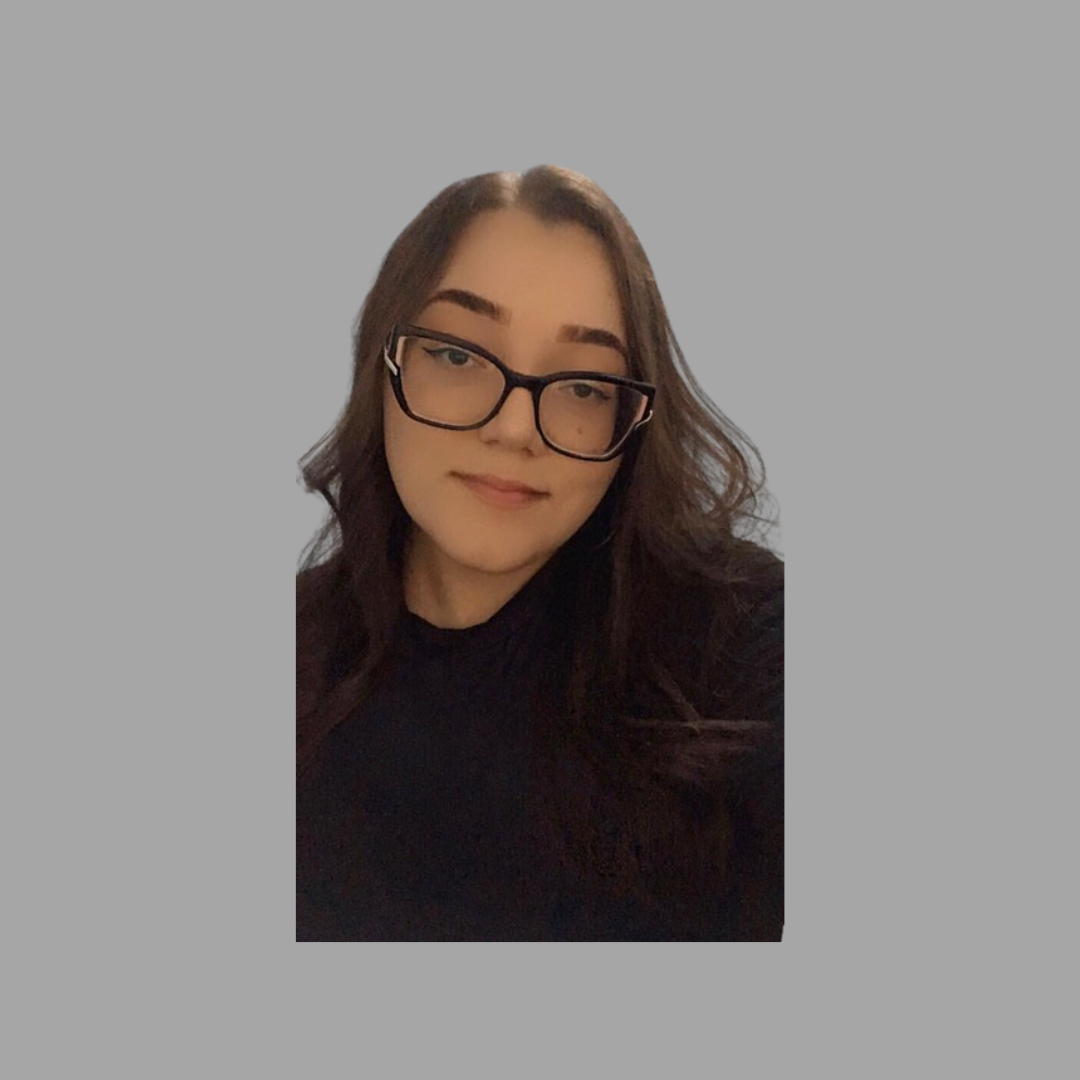
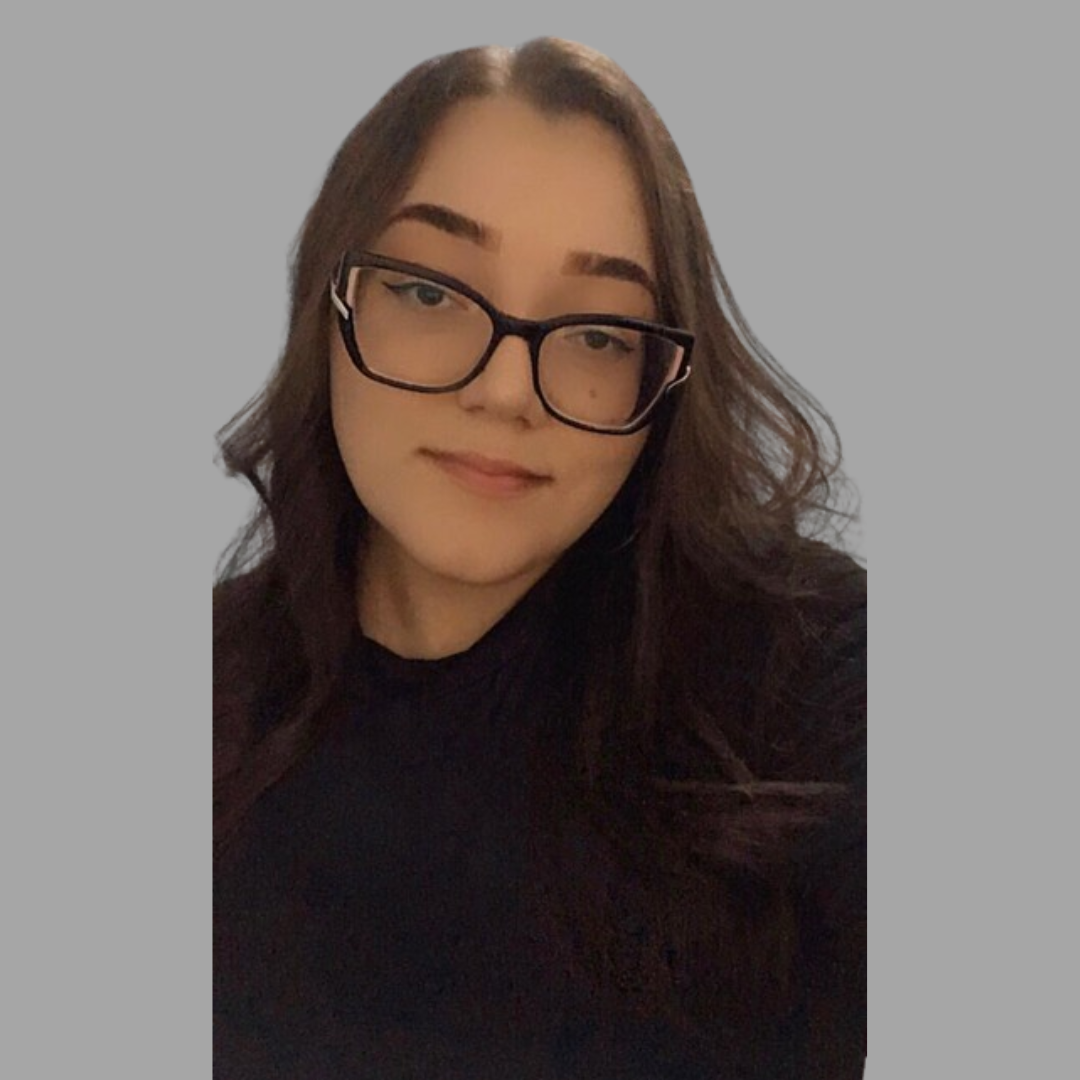
ajustando css e alterando imagem de integrante da equipe

Changed region(s): [[0.1833, 0.0306, 0.825, 1.0], [0.6111, 0.7028, 0.6417, 0.7333]]

diff --git a/frontend/src/components/TeamCard/TeamCard.jsx b/frontend/src/components/TeamCard/TeamCard.jsx
@@ -28,12 +28,14 @@ export default function TeamCard({
       <h3>{name}</h3>
       <span className="role">{role}</span>
       <p>{description}</p>
-      <a href={gitHubLink} target="_blank">
-        <Github className="icon" />
-      </a>
-      <a href={linkedinLink} target="_blank">
-        <Linkedin className="icon" />
-      </a>
+      <div className="icon-link">
+        <a href={gitHubLink} target="_blank">
+          <Github className="icon" />
+        </a>
+        <a href={linkedinLink} target="_blank">
+          <Linkedin className="icon" />
+        </a>
+      </div>
     </div>
   );
 }

diff --git a/frontend/src/components/TeamCard/teamcard.css b/frontend/src/components/TeamCard/teamcard.css
@@ -9,9 +9,22 @@
   background-color: #808080;
   margin-bottom: 1rem;
 }
-#team-card a {
-  margin-right: 0.5rem;
+.icon-link {
+  display: flex;
+  justify-content: flex-start;
+  align-items: center;
+  flex-direction: row;
+  gap: 0.7rem;
 }
+.icon-link a {
+  text-decoration: none;
+  color: #4f3864;
+}
+
+.icon-link a:hover {
+  color: #757575;
+}
+
 .img-team {
   width: 4rem;
   height: 4rem;
